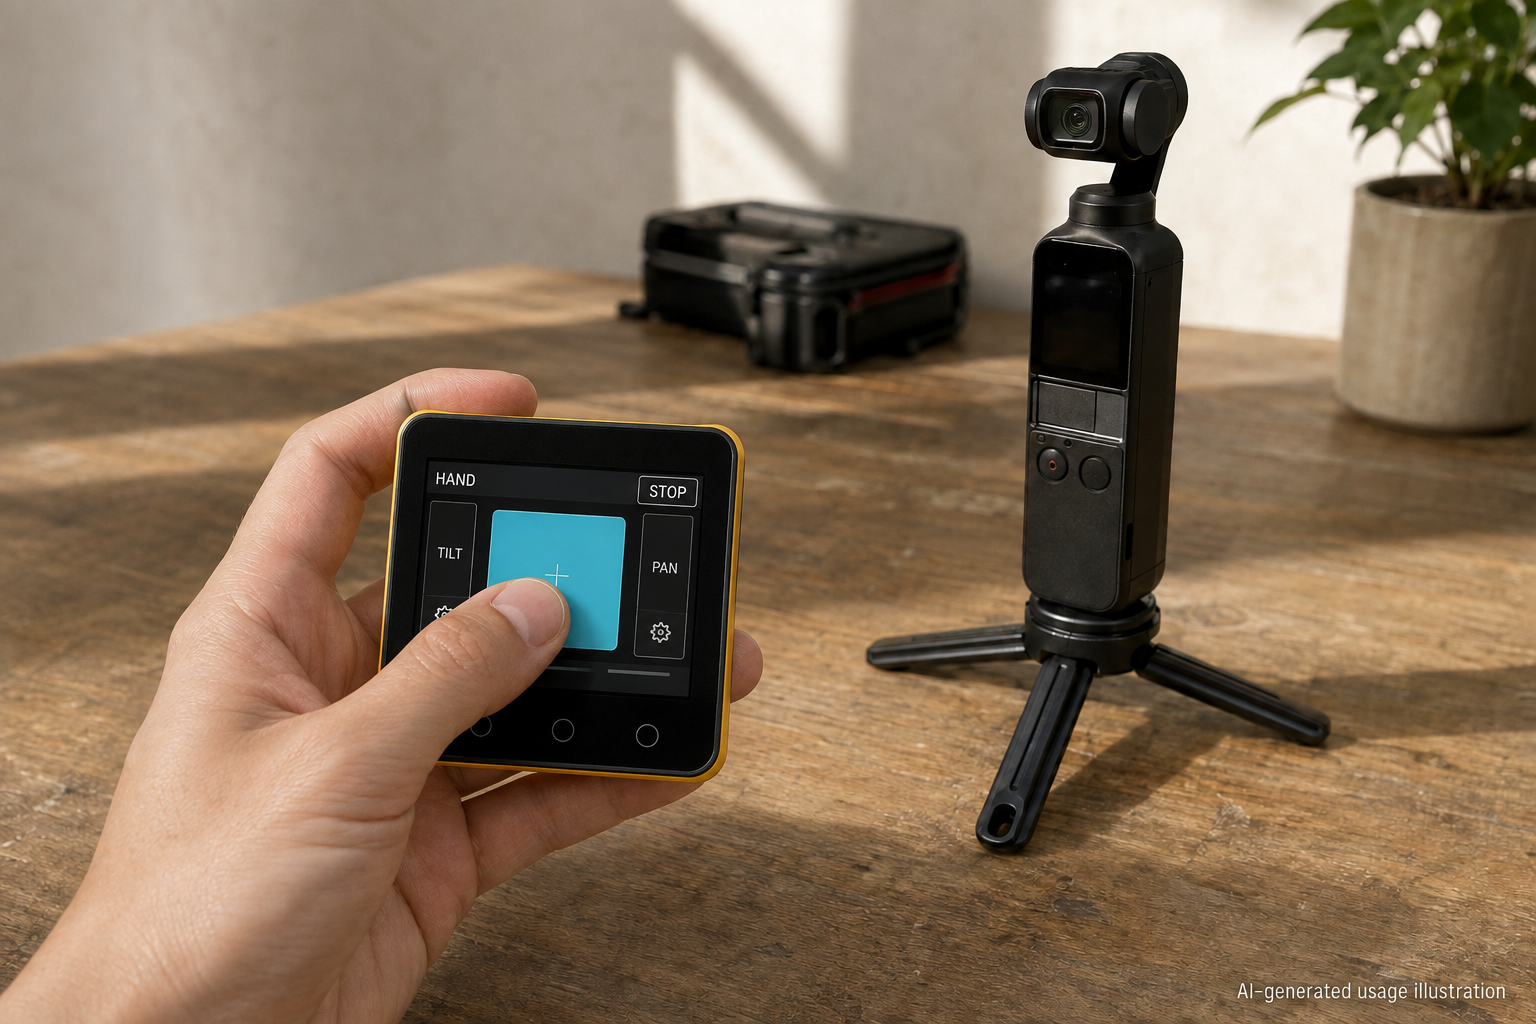
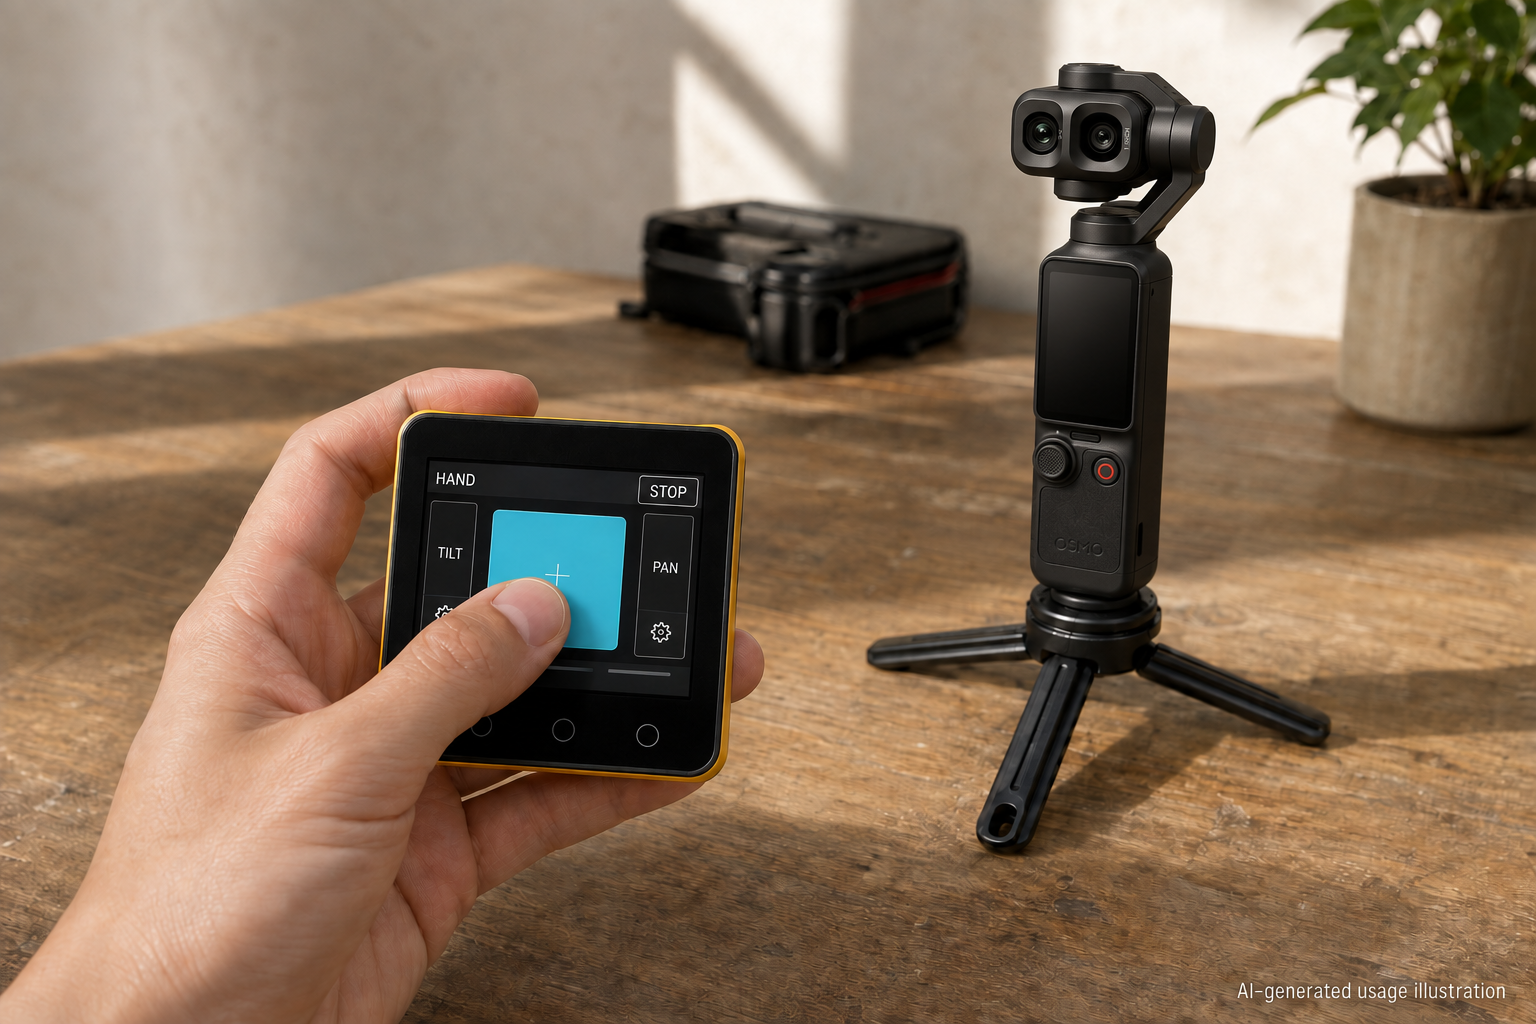
Correct usage illustrations using official Pocket 4P reference

diff --git a/docs/images/README.md b/docs/images/README.md
@@ -11,7 +11,27 @@ No illustration is evidence of camera compatibility, range, image quality or con
 Original outputs retain their provenance metadata; no pixel editing was performed outside
 the image-generation tool.
 
-## Final prompts
+## Pocket 4P correction (2026-09-08)
+
+Both cameras were replaced using the built-in image-generation edit tool with
+[DJI's official Pocket 4P product reference](https://store.dji.com/jp/product/osmo-pocket-4p?set_region=JP&vid=241282).
+The product-only reference from In the Box shows the dual-lens head, gimbal arm,
+handle, joystick and red-ring record button. These remain AI composites, not real
+photographs. The historical single-lens instructions below are superseded.
+
+Final correction prompt for both images:
+
+```text
+Use case: precise-object-edit.
+Image 1 is the edit target: an OsmoPalm Core2 usage illustration. Image 2 is the authoritative official DJI Osmo Pocket 4P product identity reference.
+Replace ONLY the entire generic camera in image 1 with the actual black DJI Osmo Pocket 4P from image 2, mounted on the existing tabletop mini tripod. Match its exact recognizable physical design: two lenses side by side horizontally in a wide rounded rectangular head, smaller left lens marked 3X and larger right lens marked 1 INCH, correct surrounding three-axis gimbal arm, narrow handle, rotatable screen, textured joystick on left and red-ring record button on right below screen. Do not use a single-lens Pocket 3/4 camera. Match perspective, real-world scale, sunlight and contact shadows to the target scene.
+Preserve everything else in image 1: Core2 controller silhouette, yellow trim, screen UI and all labels, hand anatomy and position, table, background, crop, composition and tripod. Preserve the exact lower-right caption "AI-generated usage illustration". Photorealistic illustrative composite; no new props or cables. Output same landscape framing.
+```
+
+Additional JOG constraint: preserve the camera's landscape-rotated screen while
+using the official 4P handle and dual-lens head.
+
+## Historical generation prompts
 
 ### HAND base
 
